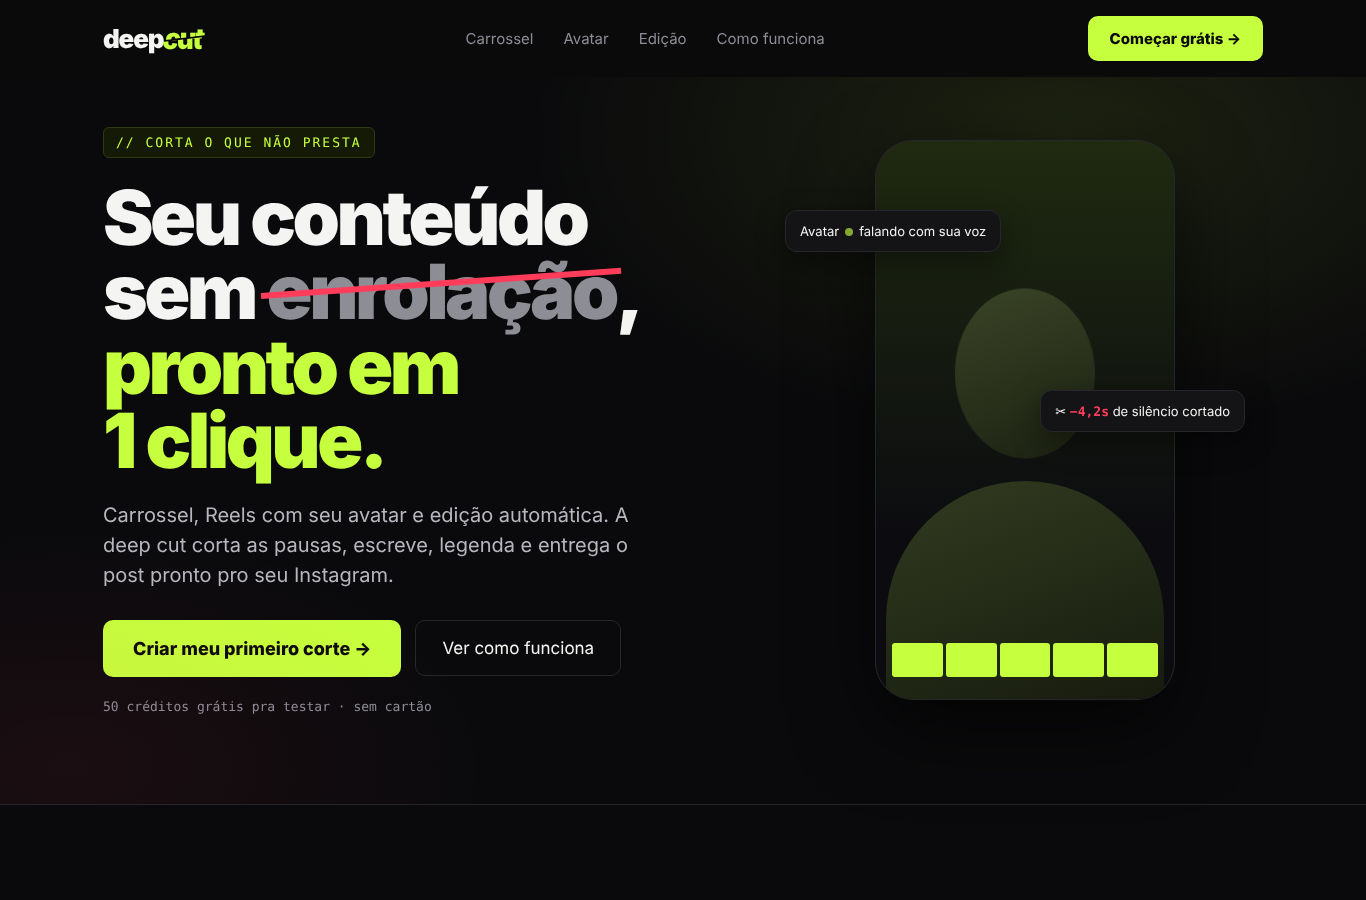
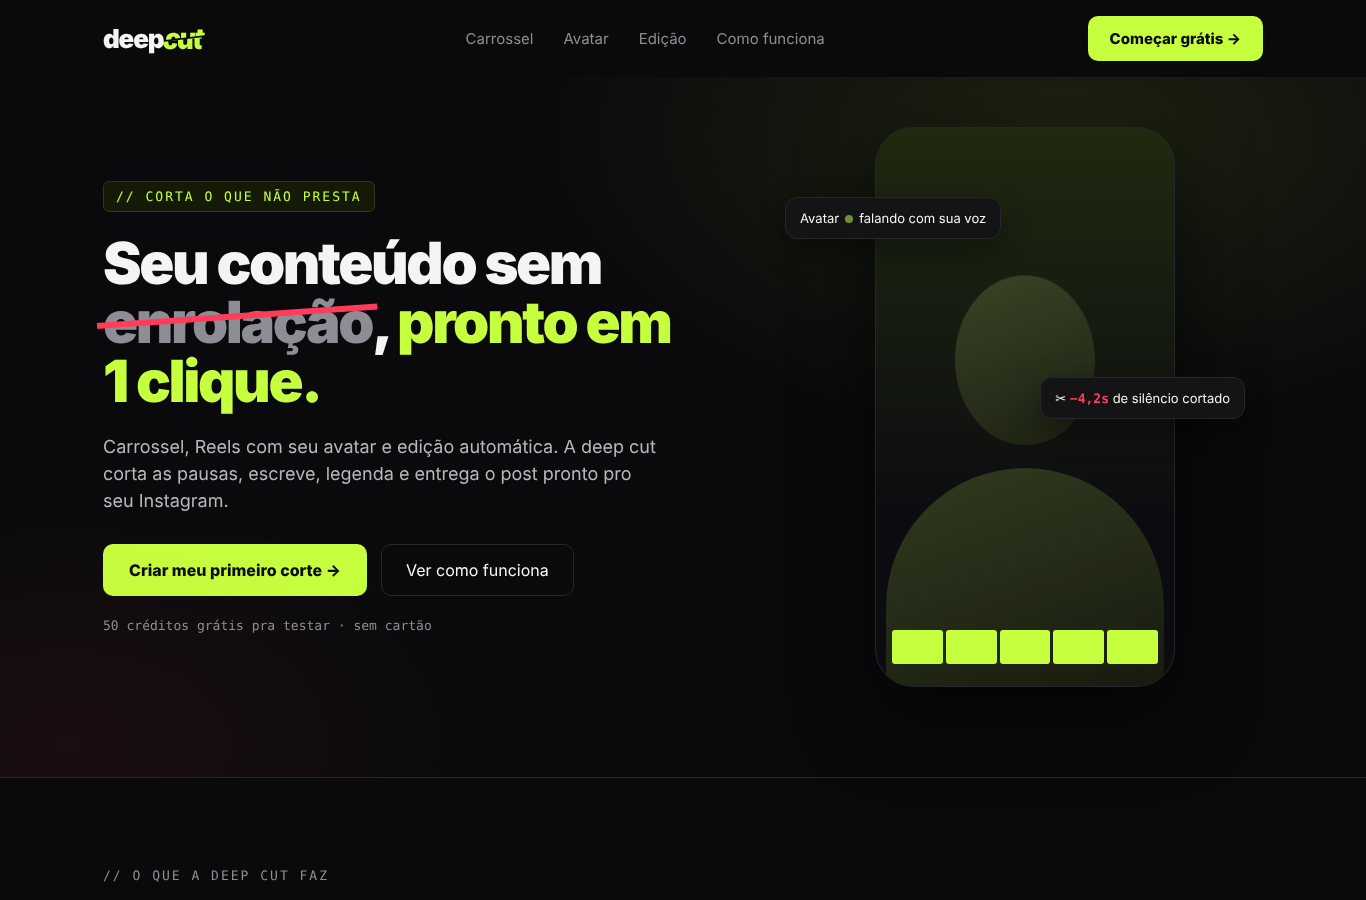
Site: tipografia menor (títulos, textos e números)
Claude-Session: https://claude.ai/code/session_0174zDLMSBsNfdGpb3saPHgq

diff --git a/public/index.html b/public/index.html
@@ -31,19 +31,19 @@ nav .wrap{display:flex;justify-content:space-between;align-items:center;height:7
 .links{display:flex;gap:30px;color:var(--sub);font-size:15px}.links a:hover{color:var(--txt)}
 .btn{display:inline-flex;align-items:center;gap:8px;background:var(--lima);color:#0a0a0c;font-weight:800;border-radius:10px;padding:13px 22px;font-size:15px;transition:transform .15s,box-shadow .15s}
 .btn:hover{transform:translateY(-1px);box-shadow:0 10px 30px rgba(198,255,61,.2)}
-.btn.grande{font-size:18px;padding:18px 30px}
-.ghostbtn{border:1px solid var(--borda);padding:17px 26px;border-radius:10px;font-size:17px;transition:border-color .2s}.ghostbtn:hover{border-color:var(--sub)}
+.btn.grande{font-size:16px;padding:16px 26px}
+.ghostbtn{border:1px solid var(--borda);padding:15px 24px;border-radius:10px;font-size:16px;transition:border-color .2s}.ghostbtn:hover{border-color:var(--sub)}
 
 /* hero */
 .hero{position:relative}
 .hero .wrap{display:grid;grid-template-columns:1.15fr .85fr;gap:40px;align-items:center;padding-top:50px;padding-bottom:90px}
 .tagline{font-family:var(--mono);font-size:13px;color:var(--lima);letter-spacing:2px;border:1px solid #2e3a12;background:#141a06;display:inline-block;padding:7px 12px;border-radius:6px}
-h1{font-size:76px;line-height:.98;letter-spacing:-3.5px;font-weight:900;margin:22px 0}
+h1{font-size:58px;line-height:1.02;letter-spacing:-2.4px;font-weight:900;margin:22px 0}
 h1 .riscada{position:relative;color:var(--sub);white-space:nowrap}
 h1 .riscada:after{content:"";position:absolute;left:-6px;right:-6px;top:52%;height:6px;background:var(--corte);transform-origin:left;transform:rotate(-4deg) scaleX(0);animation:riscaH .45s .5s cubic-bezier(.6,0,.3,1) forwards}
 @keyframes riscaH{to{transform:rotate(-4deg) scaleX(1)}}
 h1 em{font-style:normal;color:var(--lima)}
-.sub{font-size:20px;color:#b7b7bf;line-height:1.5;max-width:560px}
+.sub{font-size:18px;color:#b7b7bf;line-height:1.5;max-width:560px}
 .acoes{display:flex;gap:14px;margin-top:30px;align-items:center;flex-wrap:wrap}
 .mini{margin-top:22px;font-family:var(--mono);font-size:13px;color:var(--sub)}
 
@@ -53,7 +53,7 @@ h1 em{font-style:normal;color:var(--lima)}
 .cabeca{position:absolute;left:50%;top:150px;width:140px;height:170px;border-radius:50%;background:linear-gradient(160deg,#3a4426,#1c2112);transform:translateX(-50%);animation:fala 1.6s ease-in-out infinite}
 .ombros{position:absolute;left:10px;right:10px;top:340px;height:240px;border-radius:140px 140px 0 0;background:linear-gradient(160deg,#323b20,#15190d)}
 @keyframes fala{50%{transform:translateX(-50%) translateY(-3px) rotate(-1deg)}}
-.leg{position:absolute;left:0;right:0;top:400px;text-align:center;font-weight:900;font-size:26px;letter-spacing:-.5px;min-height:70px}
+.leg{position:absolute;left:0;right:0;top:400px;text-align:center;font-weight:900;font-size:24px;letter-spacing:-.5px;min-height:70px}
 .leg span{display:inline-block;margin:0 3px;opacity:0;transform:scale(.8);transition:opacity .15s,transform .15s}
 .leg span.vis{opacity:1;transform:none}.leg span.on{background:var(--lima);color:#0a0a0c;padding:0 6px}
 .timeline{position:absolute;left:16px;right:16px;bottom:22px;height:34px;display:flex;gap:3px}
@@ -69,17 +69,17 @@ h1 em{font-style:normal;color:var(--lima)}
 /* seções */
 section.bloco{padding:90px 0;border-top:1px solid var(--borda)}
 .rot{font-family:var(--mono);font-size:13px;letter-spacing:2px;color:var(--sub);margin-bottom:16px}
-h2{font-size:48px;letter-spacing:-2px;line-height:1.02;font-weight:900;max-width:760px}
+h2{font-size:38px;letter-spacing:-1.4px;line-height:1.08;font-weight:900;max-width:760px}
 h2 em{font-style:normal;color:var(--lima)}
 .cards{display:grid;grid-template-columns:repeat(3,1fr);gap:18px;margin-top:44px}
 .card{background:var(--card);border:1px solid var(--borda);border-radius:20px;padding:28px;transition:border-color .2s,transform .2s}
 .card:hover{border-color:#3d4a1a;transform:translateY(-3px)}
 .card .n{font-family:var(--mono);color:var(--lima);font-size:13px}
-.card h3{font-size:24px;letter-spacing:-.6px;margin:14px 0 10px}
-.card p{color:#b7b7bf;line-height:1.55;font-size:16px}
+.card h3{font-size:20px;letter-spacing:-.6px;margin:14px 0 10px}
+.card p{color:#b7b7bf;line-height:1.55;font-size:15px}
 .numeros{display:grid;grid-template-columns:repeat(3,1fr);gap:18px;margin-top:44px}
 .numero{border-left:2px solid var(--lima);padding-left:20px}
-.numero b{display:block;font-size:64px;font-weight:900;letter-spacing:-3px}
+.numero b{display:block;font-size:50px;font-weight:900;letter-spacing:-2px}
 .numero span{color:var(--sub);font-size:15px}
 .final{text-align:center}.final h2{margin:0 auto}.final .acoes{justify-content:center}
 footer{border-top:1px solid var(--borda);padding:30px 0;color:var(--sub);font-family:var(--mono);font-size:12px}
@@ -92,9 +92,9 @@ footer .wrap{display:flex;justify-content:space-between;gap:16px;flex-wrap:wrap}
 @media(max-width:900px){
   .wrap{padding:0 20px}.links{display:none}
   .hero .wrap{grid-template-columns:1fr;padding-top:30px;padding-bottom:60px}
-  h1{font-size:46px;letter-spacing:-2px}.sub{font-size:17px}
+  h1{font-size:38px;letter-spacing:-1.5px}.sub{font-size:16px}
   .fone{transform:scale(.9);margin-top:10px}.s1{right:-24px}.s2{left:-24px}
-  h2{font-size:34px;letter-spacing:-1.2px}
+  h2{font-size:28px;letter-spacing:-1px}
   .cards,.numeros{grid-template-columns:1fr}
   section.bloco{padding:60px 0}.btn.grande,.ghostbtn{width:100%;justify-content:center;text-align:center}
 }
